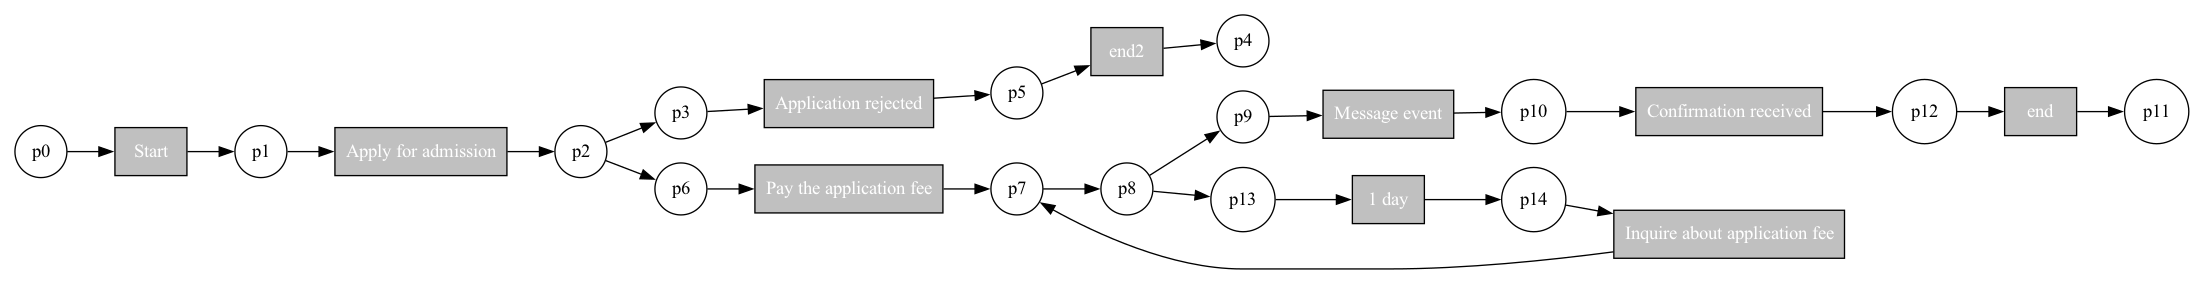
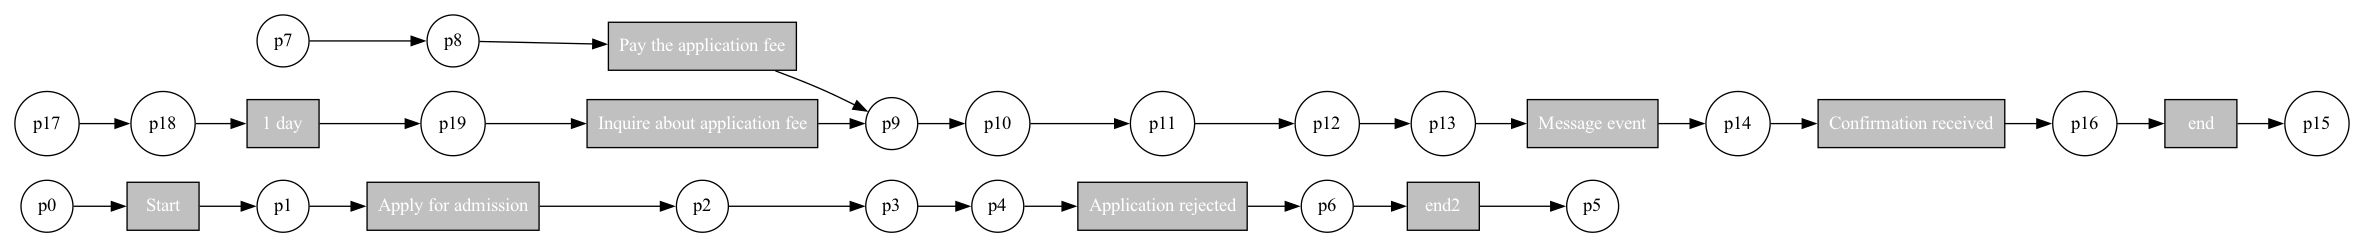
update config, add logs and update tests

diff --git a/tests/test_bpmn_parsing.py b/tests/test_bpmn_parsing.py
@@ -19,6 +19,8 @@ class TestBPMNParsing(unittest.TestCase):
 
         for i in range(len(elements)):
             for element_expected in expected:
+                if "count" not in element_expected:
+                    element_expected["count"] = 0
                 if isinstance(elements[i], element_expected["class"]) and (
                         element_expected["count"] < element_expected["expected_count"]):
                     del elements_clone[0]
@@ -34,10 +36,10 @@ class TestBPMNParsing(unittest.TestCase):
         self.assertEqual(len(diagram.processes[0].elements), 5)
 
         expected_elements = [
-            {"class": StartEvent, "count": 0, "expected_count": 1},
-            {"class": EndEvent, "count": 0, "expected_count": 1},
-            {"class": Task, "count": 0, "expected_count": 1},
-            {"class": SequenceFlow, "count": 0, "expected_count": 2},
+            {"class": StartEvent, "expected_count": 1},
+            {"class": EndEvent, "expected_count": 1},
+            {"class": Task, "expected_count": 1},
+            {"class": SequenceFlow, "expected_count": 2},
         ]
 
         self.assert_elements(diagram.processes[0].elements, expected_elements)
@@ -48,11 +50,11 @@ class TestBPMNParsing(unittest.TestCase):
         self.assertEqual(len(diagram.processes[0].elements), 11)
 
         expected_elements = [
-            {"class": StartEvent, "count": 0, "expected_count": 1},
-            {"class": EndEvent, "count": 0, "expected_count": 2},
-            {"class": Task, "count": 0, "expected_count": 2},
-            {"class": SequenceFlow, "count": 0, "expected_count": 5},
-            {"class": ExclusiveGateway, "count": 0, "expected_count": 1},
+            {"class": StartEvent, "expected_count": 1},
+            {"class": EndEvent, "expected_count": 2},
+            {"class": Task, "expected_count": 2},
+            {"class": SequenceFlow, "expected_count": 5},
+            {"class": ExclusiveGateway, "expected_count": 1},
         ]
 
         self.assert_elements(diagram.processes[0].elements, expected_elements)
@@ -63,11 +65,11 @@ class TestBPMNParsing(unittest.TestCase):
         self.assertEqual(len(diagram.processes[0].elements), 9)
 
         expected_elements = [
-            {"class": StartEvent, "count": 0, "expected_count": 2},
-            {"class": EndEvent, "count": 0, "expected_count": 1},
-            {"class": Task, "count": 0, "expected_count": 1},
-            {"class": SequenceFlow, "count": 0, "expected_count": 4},
-            {"class": ExclusiveGateway, "count": 0, "expected_count": 1},
+            {"class": StartEvent, "expected_count": 2},
+            {"class": EndEvent, "expected_count": 1},
+            {"class": Task, "expected_count": 1},
+            {"class": SequenceFlow, "expected_count": 4},
+            {"class": ExclusiveGateway, "expected_count": 1},
         ]
 
         self.assert_elements(diagram.processes[0].elements, expected_elements)
@@ -79,11 +81,11 @@ class TestBPMNParsing(unittest.TestCase):
         self.assertEqual(len(elements), 11)
 
         expected_elements = [
-            {"class": StartEvent, "count": 0, "expected_count": 2},
-            {"class": EndEvent, "count": 0, "expected_count": 2},
-            {"class": Task, "count": 0, "expected_count": 2},
-            {"class": SequenceFlow, "count": 0, "expected_count": 4},
-            {"class": MessageFlow, "count": 0, "expected_count": 1},
+            {"class": StartEvent, "expected_count": 2},
+            {"class": EndEvent, "expected_count": 2},
+            {"class": Task, "expected_count": 2},
+            {"class": SequenceFlow, "expected_count": 4},
+            {"class": MessageFlow, "expected_count": 1},
         ]
 
         self.assert_elements(elements, expected_elements)
@@ -94,13 +96,13 @@ class TestBPMNParsing(unittest.TestCase):
         self.assertEqual(len(diagram.processes[0].elements), 26)
 
         expected_elements = [
-            {"class": StartEvent, "count": 0, "expected_count": 1},
-            {"class": EndEvent, "count": 0, "expected_count": 2},
-            {"class": Task, "count": 0, "expected_count": 5},
-            {"class": SequenceFlow, "count": 0, "expected_count": 13},
-            {"class": ExclusiveGateway, "count": 0, "expected_count": 2},
-            {"class": EventBasedGateway, "count": 0, "expected_count": 1},
-            {"class": IntermediateEvent, "count": 0, "expected_count": 2},
+            {"class": StartEvent, "expected_count": 1},
+            {"class": EndEvent, "expected_count": 2},
+            {"class": Task, "expected_count": 5},
+            {"class": SequenceFlow, "expected_count": 13},
+            {"class": ExclusiveGateway, "expected_count": 2},
+            {"class": EventBasedGateway, "expected_count": 1},
+            {"class": IntermediateEvent, "expected_count": 2},
         ]
 
         self.assert_elements(diagram.processes[0].elements, expected_elements)

diff --git a/main.py b/main.py
@@ -1,19 +1,50 @@
+import getopt
+import logging
 import os
+import sys
 
 from utils.bpmn_functions import parse_bpmn_file
 from utils.functions import get_files_from_dir
 from utils.petri_functions import petri_net_to_graph
 from utils.translation_functions import bpmn_to_petri
 
+logging.basicConfig(filename="logs/main.log", level=logging.INFO)
+
+
+def get_args(argv):
+    opts, args = getopt.getopt(argv, "hf:", ["filename="])
+    filename = None
+    for opt, arg in opts:
+        if opt == '-h':
+            logging.info('main.py -f <bpmn file name>')
+            sys.exit()
+        elif opt in ("-f", "--filename"):
+            filename = arg
+    logging.info('Arguments ==>  {}'.format(filename))
+
+    return filename
+
+
 if __name__ == '__main__':
+    logging.info("\r\n\r\n################## New Execution ##################")
     dir_path = 'docs/bpmn'
 
-    print(get_files_from_dir(dir_path))
+    filename_arg = get_args(sys.argv[1:])
     for path in get_files_from_dir(dir_path):
         file_name, file_extension = os.path.splitext(path)
+        filename_without_ext, _ = os.path.splitext(os.path.basename(file_name))
 
-        bpmn_diagram = parse_bpmn_file(path)
-        print(bpmn_diagram)
-        petri_net = bpmn_to_petri(bpmn_diagram)
+        if filename_arg is None or filename_without_ext == filename_arg:
+            logging.info("\r\n !!!!!! file : {} !!!!!! ".format(path))
 
-        petri_net_to_graph(petri_net, "{}.png".format(file_name.replace('/bpmn', '/petri')))
+            bpmn_diagram = parse_bpmn_file(path)
+
+            logging.info("{} file parsed".format(filename_without_ext))
+            petri_net = bpmn_to_petri(bpmn_diagram)
+
+            logging.info("{} petri net generated".format(filename_without_ext))
+
+            img_path = "{}.png".format(file_name.replace('/bpmn', '/petri'))
+            petri_net_to_graph(petri_net, img_path)
+
+            logging.info("{} petri net save in png ({})".format(filename_without_ext, img_path))

diff --git a/utils/translation_functions.py b/utils/translation_functions.py
@@ -10,7 +10,6 @@ from classes.PETRI.arc import Arc
 from classes.PETRI.petri_net import PetriNet
 from classes.PETRI.place import Place
 from classes.PETRI.transition import Transition
-from utils.petri_functions import petri_net_to_graph
 
 
 def translate_bpmn_element(element, petri_net, place_id, already_translated):
@@ -95,9 +94,14 @@ def translate_bpmn_element(element, petri_net, place_id, already_translated):
         already_translated.append((petri_element, element))
 
         for out_element in element.outgoing_elements:
+            transition = Transition(element.name, element.element_id)
+            petri_net.add_place(transition)
+            arc = Arc(place, transition)
+            petri_net.add_arc(arc)
+
             target = translate_bpmn_element(out_element, petri_net, place_id, already_translated)
 
-            arc = Arc(place, target)
+            arc = Arc(transition, target)
             petri_net.add_arc(arc)
 
     return petri_element

diff --git a/tests/test_bpmn_to_petri.py b/tests/test_bpmn_to_petri.py
@@ -10,4 +10,15 @@ class TestBPMNToPetri(unittest.TestCase):
     def test_start_task_end(self):
         bpmn_diagram = parse_bpmn_file(self.bpmn_dir + "parts/start_task_end.bpmn")
         petri_net = bpmn_to_petri(bpmn_diagram)
-        print(petri_net)
+
+        self.assertEqual(4, len(petri_net.places), "Missing or too mush places")
+        self.assertEqual(3, len(petri_net.transitions), "Missing or too mush places")
+        self.assertEqual(6, len(petri_net.arcs), "Missing or too mush places")
+
+    def test_product(self):
+        bpmn_diagram = parse_bpmn_file(self.bpmn_dir + "product.bpmn")
+        petri_net = bpmn_to_petri(bpmn_diagram)
+
+        self.assertEqual(14, len(petri_net.places), "Missing or too mush places")
+        self.assertEqual(12, len(petri_net.transitions), "Missing or too mush places")
+        self.assertEqual(26, len(petri_net.arcs), "Missing or too mush places")

diff --git a/utils/bpmn_functions.py b/utils/bpmn_functions.py
@@ -1,3 +1,4 @@
+import logging
 from xml.etree import ElementTree
 
 from classes.BPMN.bpmn_diagram import BpmnDiagram
@@ -89,13 +90,14 @@ def map_elements_of_process(process_xml, process, bpmn_diagram):
         if element is not None:
             add_element_to_process(element, process)
         elif xml_child.tag != BpmnXmlElement.SEQUENCE_FLOW.value:
-            print("⚠ '{}' tag not found !".format(xml_child.tag))
+            logging.warning("⚠ '{}' tag not found !".format(xml_child.tag))
 
     sequences = process_xml.findall(BpmnXmlElement.SEQUENCE_FLOW.value)
     for xml_sequence in sequences:
         source, target = find_source_and_target(xml_sequence, bpmn_diagram)
         flow = SequenceFlow(xml_sequence, source, target, 0)
         process.append_element(flow)
+
 
 def create_bpmn_diagram(xml):
     bpmn_diagram = BpmnDiagram()

diff --git a/README.md b/README.md
@@ -2,7 +2,7 @@
 
 ### BPMN Diagram
 
-#### Files Architecture: 
+#### Files Architecture:
 
 ##### Classes:
 
@@ -13,10 +13,10 @@
 - 📄 [bpmn_element.py](classes%2FBPMN%2Fbpmn_element.py)
 - 📄 [bpmn_diagram.py](classes%2FBPMN%2Fbpmn_diagram.py)
 
-- 📁 Flow: 
+- 📁 Flow:
     - 📄 [flow_object.py](classes%2FBPMN%2Fflow%2Fflow_object.py)
 
-    - 📁 gateway: 
+    - 📁 gateway:
 
         - 📄 [parallel_gateway.py](classes%2FBPMN%2Fflow%2Fgateway%2Fparallel_gateway.py)
         - 📄 [inclusive_gateway.py](classes%2FBPMN%2Fflow%2Fgateway%2Finclusive_gateway.py)
@@ -24,7 +24,7 @@
         - 📄 [exclusive_gateway.py](classes%2FBPMN%2Fflow%2Fgateway%2Fexclusive_gateway.py)
         - 📄 [event_based_gateway.py](classes%2FBPMN%2Fflow%2Fgateway%2Fevent_based_gateway.py)
 
-    - 📁 event: 
+    - 📁 event:
 
         - 📄 [start_event.py](classes%2FBPMN%2Fflow%2Fevent%2Fstart_event.py)
         - 📄 [intermediate_event.py](classes%2FBPMN%2Fflow%2Fevent%2Fintermediate_event.py)
@@ -49,4 +49,13 @@
 - 📄 [place.py](classes%2FPETRI%2Fplace.py)
 - 📄 [transition.py](classes%2FPETRI%2Ftransition.py)
 
+## Tests
 
+``` shell
+./tests.sh
+```
+
+
+## Ressources
+
+- https://scholar.cu.edu.eg/?q=imanhelal/files/is333_mis_lab8_2013.pdf
